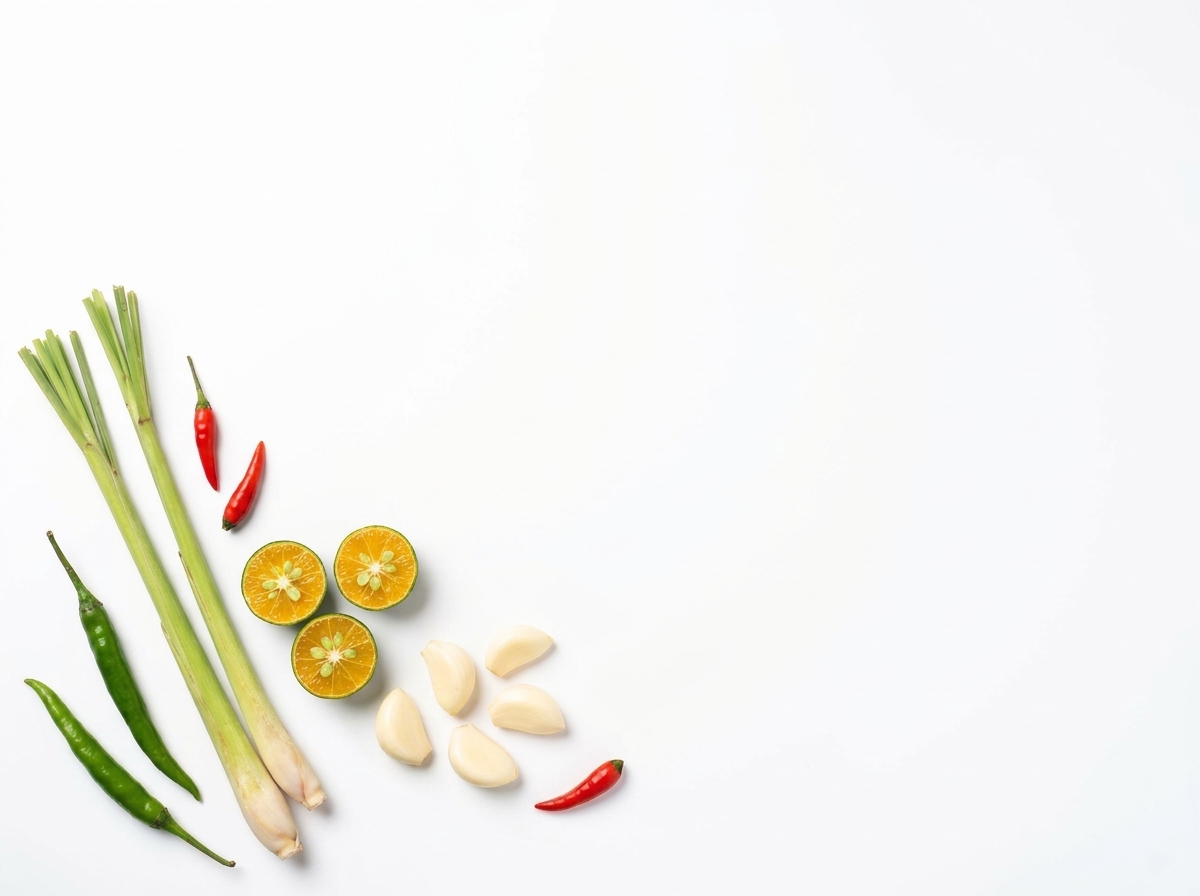
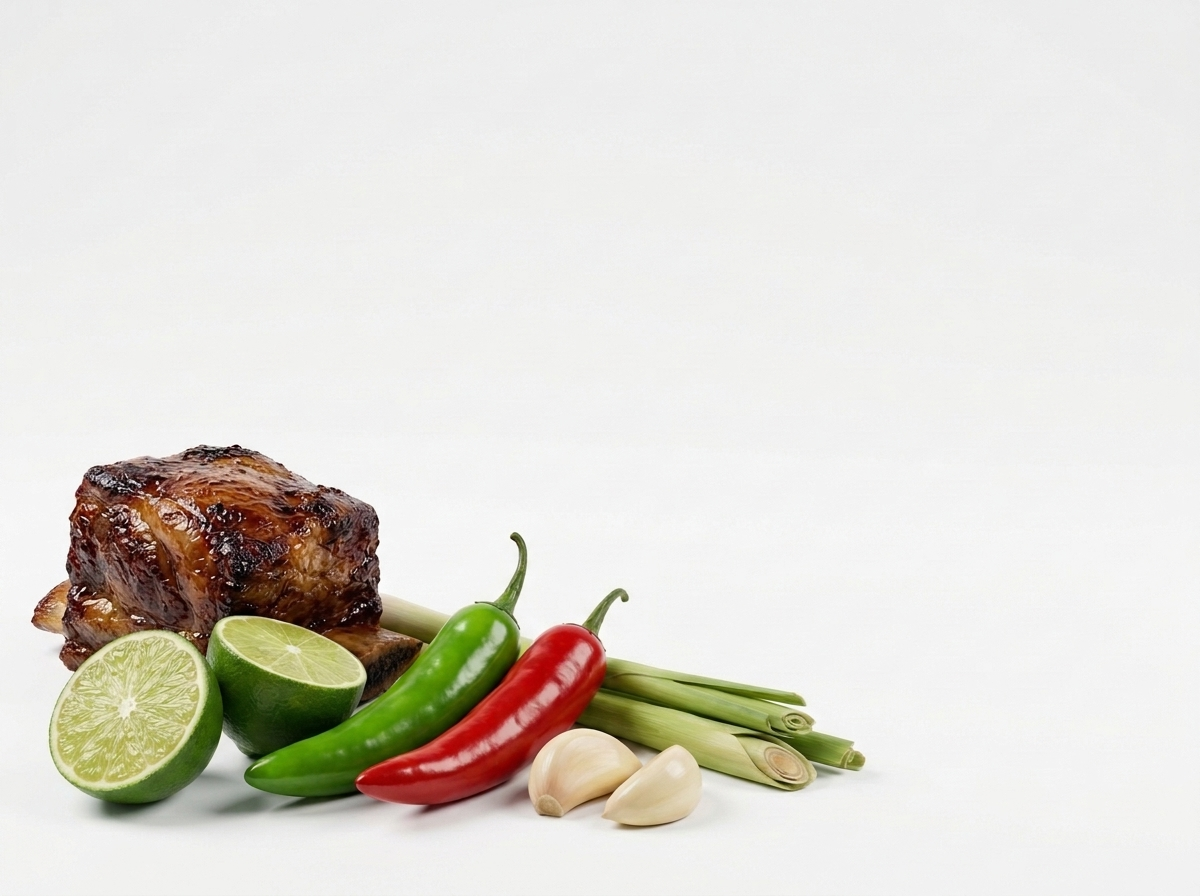
Upgrade background ingredients to 3D renders and center Cansi platter inside stretched green tapestry

Changed region(s): [[0.0, 0.3125, 0.74, 1.0]]

diff --git a/src/components/GrillPromiseSection.jsx b/src/components/GrillPromiseSection.jsx
@@ -47,7 +47,7 @@ export function GrillPromiseSection({ onInspectDish, onExploreGrill }) {
         src="./images/cansi-ingredients-corner.jpg"
         alt=""
         aria-hidden="true"
-        className="pointer-events-none absolute bottom-0 left-0 hidden h-36 w-48 object-cover object-left-bottom opacity-90 mix-blend-multiply md:block lg:h-44 lg:w-56"
+        className="pointer-events-none absolute -bottom-2 -left-2 hidden h-32 w-40 object-cover object-left-bottom brightness-[1.08] contrast-[1.08] mix-blend-multiply [mask-image:radial-gradient(ellipse_at_bottom_left,black_45%,transparent_84%)] md:block xl:h-40 xl:w-52"
         onError={(e) => {
           e.currentTarget.style.display = 'none';
         }}
@@ -56,7 +56,7 @@ export function GrillPromiseSection({ onInspectDish, onExploreGrill }) {
         src="./images/cansi-ingredients-corner.jpg"
         alt=""
         aria-hidden="true"
-        className="pointer-events-none absolute bottom-0 right-0 hidden h-36 w-48 -scale-x-100 object-cover object-left-bottom opacity-85 mix-blend-multiply md:block lg:h-44 lg:w-56"
+        className="pointer-events-none absolute -bottom-2 -right-2 hidden h-36 w-48 -scale-x-100 object-cover object-left-bottom brightness-[1.08] contrast-[1.08] mix-blend-multiply [mask-image:radial-gradient(ellipse_at_bottom_left,black_45%,transparent_84%)] md:block xl:h-44 xl:w-56"
         onError={(e) => {
           e.currentTarget.style.display = 'none';
         }}
@@ -65,7 +65,7 @@ export function GrillPromiseSection({ onInspectDish, onExploreGrill }) {
       <div className="relative mx-auto w-full max-w-7xl px-5 sm:px-8">
         <div className="grid items-center gap-12 lg:grid-cols-12 lg:gap-10">
           {/* Left Editorial Column */}
-          <div className="relative z-10 lg:col-span-6">
+          <div className="relative z-10 pb-4 lg:col-span-6 lg:pb-6">
             <h2 className="font-serif text-[2.15rem] font-semibold leading-[1.12] tracking-tight text-[#0B2718] sm:text-5xl xl:text-[3.25rem]">
               PIYO&apos;s{' '}
               <span className="relative inline-block whitespace-nowrap">
@@ -144,100 +144,51 @@ export function GrillPromiseSection({ onInspectDish, onExploreGrill }) {
             </div>
           </div>
 
-          {/* Right Stretched Forest-Green Cansi Ingredients Tapestry & Oval Platter */}
+          {/* Right Stretched Forest-Green 3D Cansi Ingredients Tapestry & Centered Oval Platter */}
           <div className="relative lg:col-span-6">
-            <div className="relative -mx-5 flex items-center justify-center py-5 sm:-mx-8 sm:py-6 lg:mx-0 lg:mr-[calc(50%-50vw)] lg:justify-start lg:pl-6 xl:pl-10">
-              {/* Stretched Deep Forest Green Tapestry extending flush to the right viewport edge */}
+            <div className="relative -mx-5 flex items-center justify-center py-4 sm:-mx-8 sm:py-6 lg:mx-0 lg:mr-[calc(50%-50vw)]">
+              {/* Stretched Deep Forest Green Tapestry filled with 3D Bacolod Cansi Ingredients */}
               <svg
-                viewBox="0 0 960 440"
-                preserveAspectRatio="xMinYMid slice"
+                viewBox="0 0 960 480"
+                preserveAspectRatio="xMidYMid slice"
                 aria-hidden="true"
-                className="pointer-events-none h-[300px] w-full drop-shadow-[0_18px_36px_rgba(11,39,24,0.22)] sm:h-[390px] lg:h-[430px] xl:h-[460px]"
+                className="pointer-events-none h-[330px] w-full drop-shadow-[0_18px_36px_rgba(11,39,24,0.24)] sm:h-[420px] lg:h-[470px] xl:h-[510px]"
               >
                 <defs>
-                  {/* Bacolod Cansi Ingredient Sketches: Marrow Bone, Calamansi, Siling Haba Chili, Lemongrass & Langka */}
-                  <pattern
-                    id="piyo-cansi-ingredients"
-                    width="150"
-                    height="150"
-                    patternUnits="userSpaceOnUse"
-                  >
-                    {/* Beef Bone Marrow cross-section */}
-                    <path
-                      d="M24 38 C20 22, 42 16, 54 28 C64 38, 56 54, 40 54 C28 54, 26 46, 24 38 Z"
-                      fill="none"
-                      stroke="rgba(223,185,111,0.24)"
-                      strokeWidth="1.4"
-                    />
-                    <ellipse
-                      cx="40"
-                      cy="37"
-                      rx="8"
-                      ry="6.5"
-                      fill="none"
-                      stroke="rgba(250,246,236,0.18)"
-                      strokeWidth="1.2"
-                    />
-
-                    {/* Halved Calamansi Citrus Wheel */}
-                    <circle
-                      cx="114"
-                      cy="38"
-                      r="16"
-                      fill="none"
-                      stroke="rgba(250,246,236,0.2)"
-                      strokeWidth="1.35"
-                    />
-                    <path
-                      d="M114 22 L114 54 M98 38 L130 38 M102.7 26.7 L125.3 49.3 M125.3 26.7 L102.7 49.3"
-                      stroke="rgba(223,185,111,0.22)"
-                      strokeWidth="1.15"
-                    />
-
-                    {/* Siling Haba Green Finger Chili Pod */}
-                    <path
-                      d="M22 114 C34 102, 54 96, 66 98 C56 108, 42 120, 22 114 Z M66 98 C72 95, 76 91, 79 87"
-                      fill="none"
-                      stroke="rgba(223,185,111,0.24)"
-                      strokeWidth="1.4"
-                      strokeLinecap="round"
-                      strokeLinejoin="round"
-                    />
-
-                    {/* Lemongrass (Tanglad) Bundle + Langka Wedge */}
-                    <path
-                      d="M94 128 L128 88 M102 132 L134 94 M110 134 L138 102"
-                      stroke="rgba(250,246,236,0.18)"
-                      strokeWidth="1.3"
-                      strokeLinecap="round"
-                    />
-                    <path
-                      d="M66 126 C72 112, 86 112, 90 126 Z"
-                      fill="none"
-                      stroke="rgba(223,185,111,0.2)"
-                      strokeWidth="1.3"
-                      strokeLinejoin="round"
-                    />
-                  </pattern>
+                  <clipPath id="piyo-cansi-banner-clip">
+                    <path d="M 22 14 Q 460 66 960 10 L 960 470 Q 460 414 22 466 Q 68 240 22 14 Z" />
+                  </clipPath>
+                  <radialGradient id="piyo-banner-vignette" cx="45%" cy="50%" r="60%">
+                    <stop offset="0%" stopColor="#091D12" stopOpacity="0.45" />
+                    <stop offset="100%" stopColor="#113421" stopOpacity="0.15" />
+                  </radialGradient>
                 </defs>
-                <path
-                  d="M 18 14 Q 440 72 960 10 L 960 430 Q 440 368 18 426 Q 68 220 18 14 Z"
-                  fill="#113421"
-                />
-                <path
-                  d="M 18 14 Q 440 72 960 10 L 960 430 Q 440 368 18 426 Q 68 220 18 14 Z"
-                  fill="url(#piyo-cansi-ingredients)"
-                />
+                <g clipPath="url(#piyo-cansi-banner-clip)">
+                  <rect width="960" height="480" fill="#113421" />
+                  <image
+                    href="./images/cansi-3d-banner-bg.jpg"
+                    x="0"
+                    y="0"
+                    width="960"
+                    height="480"
+                    preserveAspectRatio="xMidYMid slice"
+                  />
+                  <rect
+                    width="960"
+                    height="480"
+                    fill="url(#piyo-banner-vignette)"
+                  />
+                </g>
               </svg>
 
-              {/* Interactive Tilted Cream-White Oval Platter centered cleanly over left-mid of stretched green canvas */}
-              <div className="pointer-events-none absolute inset-0 flex items-center justify-center lg:justify-start lg:pl-14 xl:pl-20">
-                <div className="relative flex w-[84%] max-w-[460px] items-center justify-center sm:w-[76%] sm:max-w-[500px] lg:w-[88%] lg:max-w-[520px]">
+              {/* Interactive Tilted Cream-White Oval Platter centered neatly inside the green banner */}
+              <div className="pointer-events-none absolute inset-0 flex items-center justify-center px-6 lg:px-10">
+                <div className="relative flex w-[76%] max-w-[340px] items-center justify-center sm:w-[70%] sm:max-w-[430px] lg:w-[78%] lg:max-w-[460px]">
                   <button
                     type="button"
                     onClick={onInspectDish}
                     aria-label="Inspect Bacolod Cansi — ₱666"
-                    className="pointer-events-auto group relative flex aspect-[1.32/1] w-full -rotate-2 items-center justify-center overflow-hidden rounded-[50%] border-[8px] border-[#FAF6EC] bg-[#FAF6EC] shadow-[0_28px_56px_-14px_rgba(6,24,14,0.52)] transition duration-500 hover:rotate-0 hover:scale-[1.02] focus-visible:outline-none focus-visible:ring-4 focus-visible:ring-[#0B2718] sm:border-[12px]"
+                    className="pointer-events-auto group relative flex aspect-[1.32/1] w-full -rotate-2 items-center justify-center overflow-hidden rounded-[50%] border-[8px] border-[#FAF6EC] bg-[#FAF6EC] shadow-[0_28px_56px_-14px_rgba(6,24,14,0.58)] transition duration-500 hover:rotate-0 hover:scale-[1.02] focus-visible:outline-none focus-visible:ring-4 focus-visible:ring-[#0B2718] sm:border-[12px]"
                   >
                     <img
                       src="./images/dish-cansi-oval-platter.jpg"
@@ -250,7 +201,7 @@ export function GrillPromiseSection({ onInspectDish, onExploreGrill }) {
                   <button
                     type="button"
                     onClick={onInspectDish}
-                    className="pointer-events-auto absolute -bottom-3 right-2 z-10 inline-flex items-center gap-2 rounded-full border border-[#0B2718]/15 bg-[#FAF6EC]/95 px-4 py-2 text-xs font-bold text-[#0B2718] shadow-lg backdrop-blur-sm transition hover:bg-white sm:bottom-1 sm:right-4"
+                    className="pointer-events-auto absolute -bottom-3 right-2 z-10 inline-flex items-center gap-2 rounded-full border border-[#0B2718]/15 bg-[#FAF6EC]/95 px-4 py-2 text-xs font-bold text-[#0B2718] shadow-lg backdrop-blur-sm transition hover:bg-white sm:bottom-0 sm:right-4"
                   >
                     <span className="h-2 w-2 rounded-full bg-[#C29645]" aria-hidden="true" />
                     <span>Bacolod Cansi · ₱666</span>
